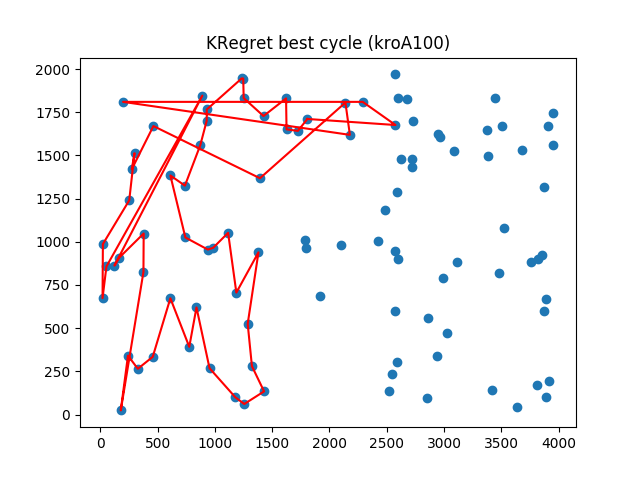
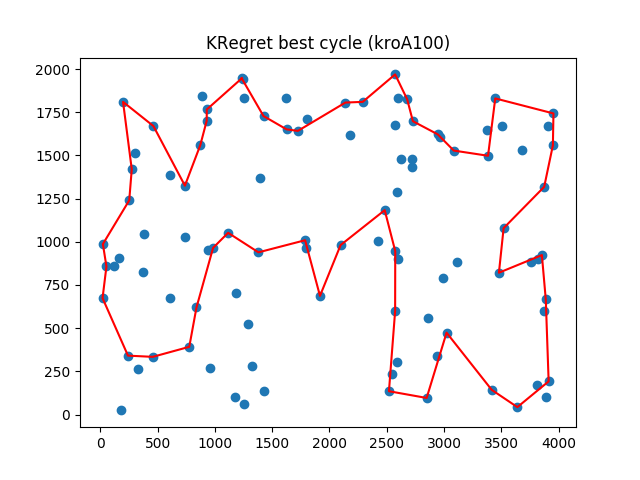
K-regret done, add saving results to csv and latex

diff --git a/aem/heuristics/k_regret.py b/aem/heuristics/k_regret.py
@@ -10,36 +10,37 @@ class KRegret(Heuristic):
         cycle = [start_vertex]
         next_vertex = self.graph.get_closest_unvisited_neighbor_idx(from_vertex=cycle[-1], visited=cycle)
         cycle.append(next_vertex)
-        while len(cycle) < 50:
-            # we can insert either first or second closest depending on cost (1-regret)
-            idx_1, cost_1 = self.select_greedy(cycle)
-            tmp_cycle = cycle + [idx_1]
-            idx_2, cost_2 = self.select_greedy(tmp_cycle)
-            total_cost_1_2 = cost_1 + cost_2
-
-            idx_3, cost_3 = self.select_greedy(cycle, exclude=[idx_1])
-            tmp_cycle = cycle + [idx_3]
-            idx_4, cost_4 = self.select_greedy(tmp_cycle)
-            total_cost_3_4 = cost_3 + cost_4
-
-            if total_cost_1_2 < total_cost_3_4:
-                cycle.append(idx_1)
-            else:
-                cycle.append(idx_3)
-
+        while len(cycle) < self.graph.no_of_vertices() // 2:
+            costs_dict = self.compute_insertion_costs(cycle)
+            costs_dict = self.sort_insertion_costs(costs_dict)
+            k_regret_dict = self.compute_k_regret_dict(costs_dict)
+            best_candidate_to_insert = max(k_regret_dict, key=k_regret_dict.get)
+            best_insert_position, best_insert_cost = costs_dict[best_candidate_to_insert][0]
+            cycle.insert(best_insert_position, best_candidate_to_insert)
         return cycle
 
-    def select_greedy(self, cycle, exclude=[]):
-        min_cost = float('inf')
-        min_cost_vertex_idx = None
-        for i in range(self.graph.no_of_vertices()):
-            if i not in cycle and i not in exclude:
-                first_closest = self.graph.get_closest_visited_idx(from_vertex=i, visited=cycle)
-                tmp_cycle = [i for i in cycle if i != first_closest]
-                second_closest = self.graph.get_closest_visited_idx(from_vertex=i, visited=tmp_cycle)
+    def compute_k_regret_dict(self, costs_dict):
+        k_regret_dict = {}
+        for vertex in costs_dict:
+            k_regret_dict[vertex] = 0
+            for i in range(self.k):
+                k_regret_dict[vertex] += costs_dict[vertex][i+1][1] - costs_dict[vertex][0][1]
+        return k_regret_dict
 
-                insertion_cost = self.graph.cost(first_closest, i) + self.graph.cost(second_closest, i)
-                if insertion_cost < min_cost:
-                    min_cost = insertion_cost
-                    min_cost_vertex_idx = i
-        return min_cost_vertex_idx, min_cost
+    def compute_insertion_costs(self, cycle: list) -> dict:
+        costs = {}
+        for vertex in range(self.graph.no_of_vertices()):
+            if vertex not in cycle:
+                costs[vertex] = []
+                for position in range(len(cycle)):
+                    tmp_cycle = cycle.copy()
+                    tmp_cycle.insert(position, vertex)
+                    cycle_cost = self.graph.compute_cycle_length(tmp_cycle)
+                    costs[vertex].append((position, cycle_cost))
+        return costs
+
+    @staticmethod
+    def sort_insertion_costs(costs: dict) -> dict:
+        for vertex in costs:
+            costs[vertex] = sorted(costs[vertex], key=lambda x: x[1])
+        return costs

diff --git a/main.py b/main.py
@@ -3,17 +3,26 @@ from aem.heuristics.nearest_neighbor import NearestNeighbor
 from aem.heuristics.greedy import Greedy
 from aem.heuristics.k_regret import KRegret
 from aem.utils.plot_util import PlotUtil
+from pandas import DataFrame
 
 instances = [
     "../data/kroA100.tsp",
     "../data/kroB100.tsp"
 ]
 
+results = {}
+
 for instance in instances:
     print(f"Working on {instance}")
     graph = TSPReader().read_graph_with_coords(instance)
-    methods = [NearestNeighbor(graph), Greedy(graph)]  # KRegret(graph)
+    methods = [NearestNeighbor(graph), Greedy(graph), KRegret(graph, k=1)]
     for method in methods:
         result = method.run()
+        results[result.method_classname] = [result.average, result.min, result.max]
         result.print()
         PlotUtil.plot_best_cycle(result, graph.coords, instance)
+
+df = DataFrame.from_dict(results)
+df.to_csv("results.csv")
+with open("result.latex", "w") as f:
+    f.write(df.to_latex())
